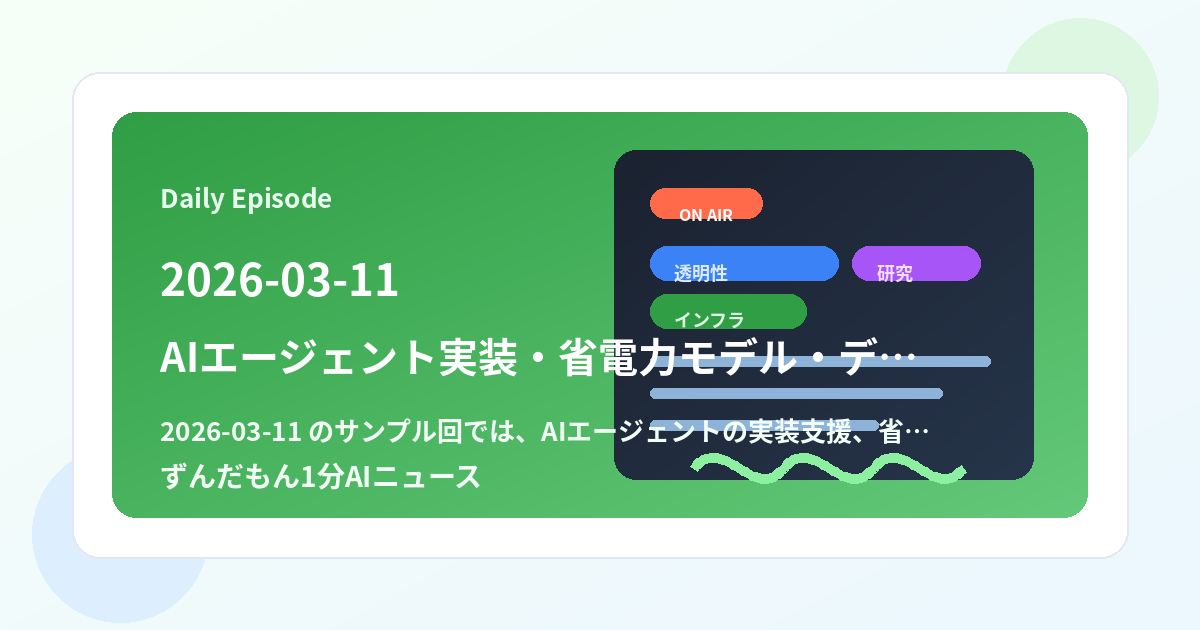
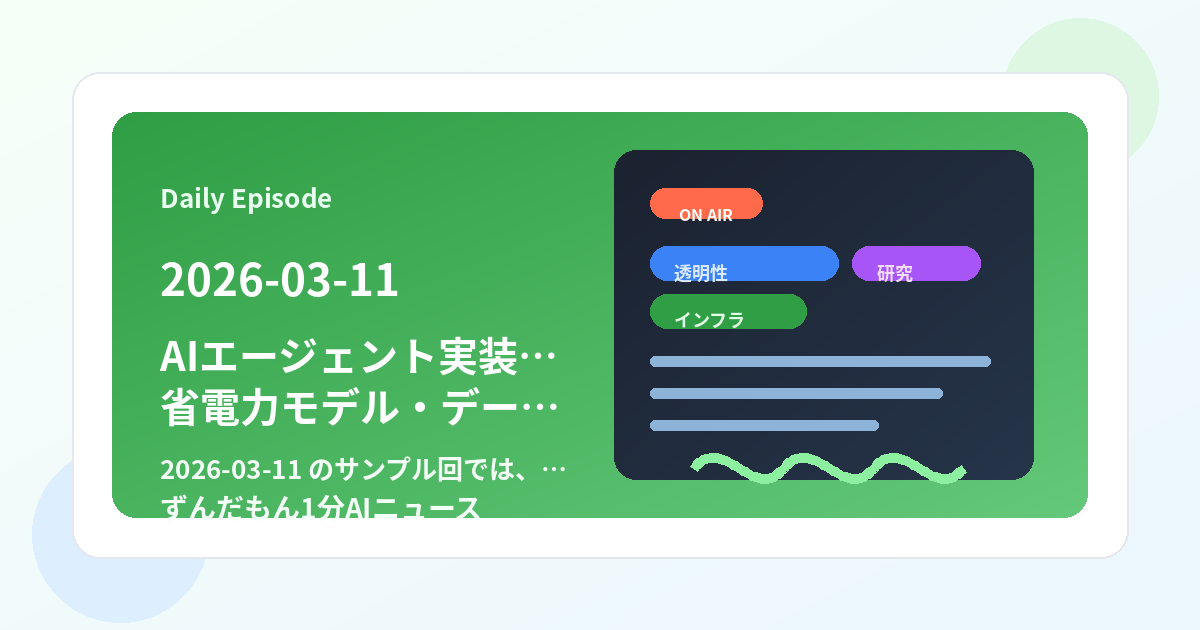
Wrap long episode OGP titles

diff --git a/scripts/render_ogp.py b/scripts/render_ogp.py
@@ -111,6 +111,15 @@ def draw_text_anchor(draw: ImageDraw.ImageDraw, xy: tuple[int, int], text: str, 
 
 
 
+def draw_multiline_text(draw: ImageDraw.ImageDraw, x: int, y: int, lines: list[str], font, fill, line_gap: int = 10):
+    current_y = y
+    for line in lines:
+        draw_text_anchor(draw, (x, current_y), line, font, fill, 'la')
+        bbox = text_bbox(draw, line, font)
+        current_y += (bbox[3] - bbox[1]) + line_gap
+
+
+
 def cubic_bezier(p0, p1, p2, p3, steps: int = 32):
     points = []
     for i in range(steps + 1):
@@ -154,7 +163,66 @@ def trim_text(text: str, max_chars: int) -> str:
 
 
 
-def render_ogp(*, out_path: Path, text_nodes: list[tuple], chips=CHIPS):
+def fit_text(text: str, max_chars: int, max_width: int, font) -> str:
+    text = trim_text(text, max_chars)
+    probe = ImageDraw.Draw(Image.new('RGB', (1, 1)))
+    while text:
+        bbox = text_bbox(probe, text, font)
+        if bbox[2] - bbox[0] <= max_width:
+            return text
+        text = text[:-2].rstrip() + '…'
+    return '…'
+
+
+
+def split_title_lines(title: str, font, max_width: int) -> list[str]:
+    title = ' '.join(title.split())
+    probe = ImageDraw.Draw(Image.new('RGB', (1, 1)))
+    bbox = text_bbox(probe, title, font)
+    if bbox[2] - bbox[0] <= max_width:
+        return [title]
+
+    parts = title.replace('・', '・|').split('|') if '・' in title else [title]
+    if len(parts) > 1:
+        lines: list[str] = []
+        current = ''
+        for part in parts:
+            candidate = current + part if current else part
+            candidate_bbox = text_bbox(probe, candidate, font)
+            if current and candidate_bbox[2] - candidate_bbox[0] > max_width:
+                lines.append(current)
+                current = part.lstrip()
+            else:
+                current = candidate
+        if current:
+            lines.append(current)
+        if len(lines) <= 2 and all((text_bbox(probe, line, font)[2] - text_bbox(probe, line, font)[0]) <= max_width for line in lines):
+            return lines
+
+    best_split = None
+    for i in range(1, len(title)):
+        left = title[:i].rstrip(' ・')
+        right = title[i:].lstrip(' ・')
+        if not left or not right:
+            continue
+        left_w = text_bbox(probe, left, font)[2] - text_bbox(probe, left, font)[0]
+        right_w = text_bbox(probe, right, font)[2] - text_bbox(probe, right, font)[0]
+        if left_w <= max_width and right_w <= max_width:
+            score = abs(left_w - right_w)
+            if best_split is None or score < best_split[0]:
+                best_split = (score, left, right)
+    if best_split:
+        return [best_split[1], best_split[2]]
+
+    first = fit_text(title, len(title), max_width, font)
+    consumed = len(first.rstrip('…'))
+    rest = title[consumed:].lstrip(' ・')
+    second = fit_text(rest or title, len(rest or title), max_width, font)
+    return [first, second]
+
+
+
+def render_ogp(*, out_path: Path, text_nodes: list[tuple], multiline_blocks: list[tuple] | None = None, chips=CHIPS):
     image = linear_gradient((WIDTH, HEIGHT), *BG_GRADIENT).convert('RGBA')
     draw = ImageDraw.Draw(image, 'RGBA')
 
@@ -176,6 +244,8 @@ def render_ogp(*, out_path: Path, text_nodes: list[tuple], chips=CHIPS):
     draw_text_anchor(draw, (706, 208), 'ON AIR', load_font(16, bold=True), (255, 255, 255, 255), 'middle')
     for text, xy, size, bold, fill, anchor in text_nodes:
         draw_text_anchor(draw, xy, text, load_font(size, bold=bold), fill, anchor)
+    for lines, xy, size, bold, fill, line_gap in multiline_blocks or []:
+        draw_multiline_text(draw, xy[0], xy[1], lines, load_font(size, bold=bold), fill, line_gap=line_gap)
 
     draw_wave(draw)
 
@@ -199,16 +269,21 @@ def main() -> None:
 
     if args.date:
         date = args.date
-        title = trim_text(args.title or 'ずんだもん1分AIニュース', 20)
-        summary = trim_text(args.summary or '公開情報をもとに独自要約したAIニュースをお届け', 36)
+        title_font_size = 40
+        title_font = load_font(title_font_size, bold=True)
+        title_lines = split_title_lines(trim_text(args.title or 'ずんだもん1分AIニュース', 28), title_font, max_width=410)
+        summary = fit_text(args.summary or '公開情報をもとに独自要約したAIニュースをお届け', 44, 410, load_font(26, bold=True))
+
         text_nodes = [
             ('Daily Episode', (160, 186), 26, True, (233, 255, 240, 255), 'la'),
             (date, (160, 262), 44, True, (255, 255, 255, 255), 'la'),
-            (title, (160, 336), 40, True, (255, 255, 255, 255), 'la'),
-            (summary, (160, 418), 26, True, (243, 255, 246, 255), 'la'),
-            ('ずんだもん1分AIニュース', (160, 462), 28, True, (243, 255, 246, 255), 'la'),
+            (summary, (160, 432 if len(title_lines) == 1 else 456), 26, True, (243, 255, 246, 255), 'la'),
+            ('ずんだもん1分AIニュース', (160, 472 if len(title_lines) == 1 else 494), 28, True, (243, 255, 246, 255), 'la'),
         ]
-        render_ogp(out_path=ROOT / 'assets' / f'ogp-{date}.png', text_nodes=text_nodes)
+        multiline_blocks = [
+            (title_lines, (160, 336), title_font_size, True, (255, 255, 255, 255), 10),
+        ]
+        render_ogp(out_path=ROOT / 'assets' / f'ogp-{date}.png', text_nodes=text_nodes, multiline_blocks=multiline_blocks)
         return
 
     render_ogp(out_path=ROOT / 'assets' / 'ogp.png', text_nodes=DEFAULT_TEXT_NODES)
